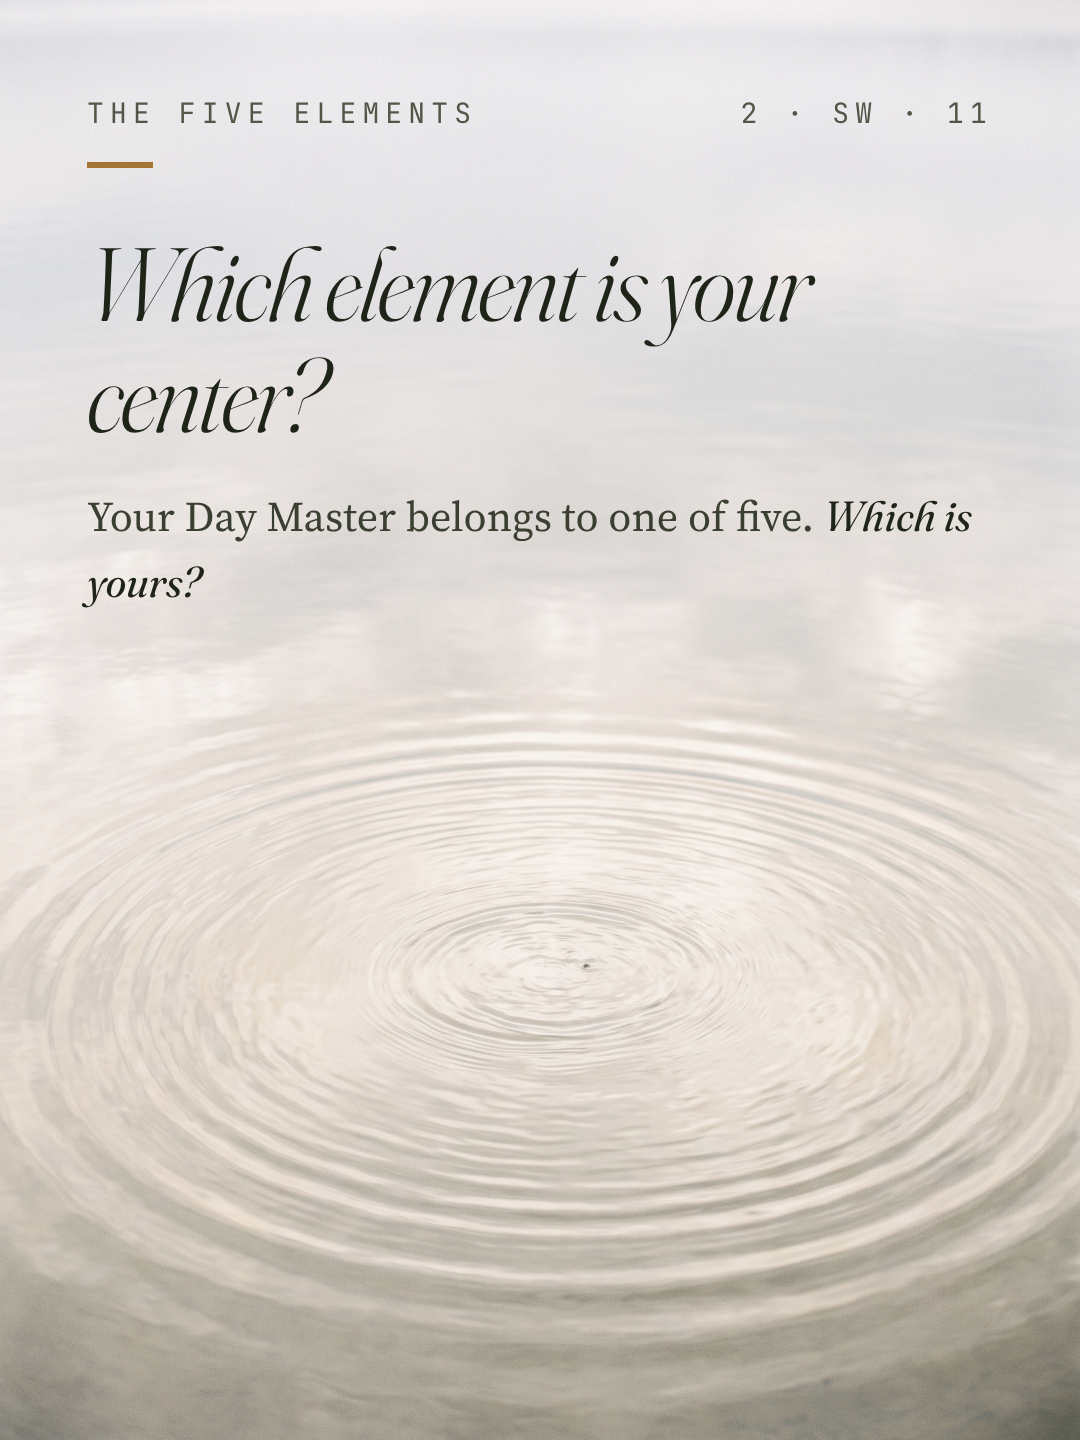
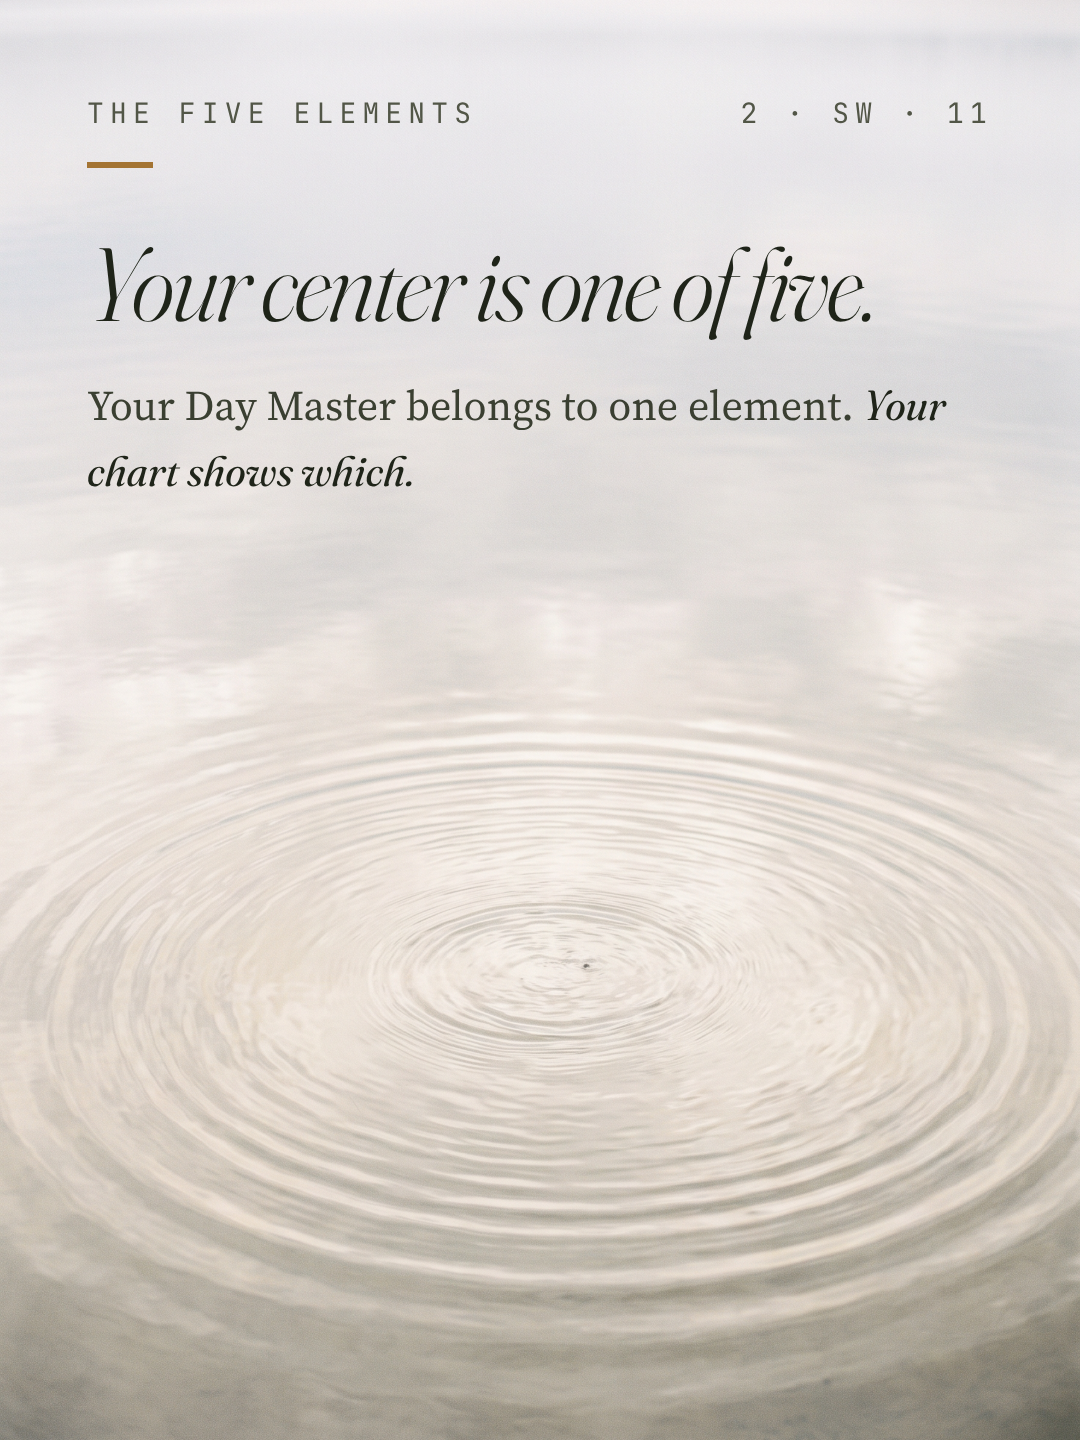
Grid 2 reader-first pass: post 12 cover and post 11 tile rewritten
Claude-Session: https://claude.ai/code/session_015jTJxM8dp5Kg3SoSqQjrAk

diff --git a/engine3/grids/g2.py b/engine3/grids/g2.py
@@ -21,6 +21,7 @@ Fill (posting) order: 13, 18, 12, 17, 14, 16, 11, 15, 10.
 Nov 18 revision (Ryan chose set B): 10 frost on glass, 11 rings on water, 13 deep indigo (dark).
 13 is a deliberate dark corner: it breaks the light/dark checkerboard at 6 NW by choice.
 redwood and hills are retired from this grid (kept in BACKGROUNDS for reference).
+- Nov 26: reader-first pass (Ryan approved): post 12 cover "One element for every season." -> "You don't feel the same all year." (old line kept as body); post 11 "Which element is your center? ... Which is yours?" -> "Your center is one of five. / Your chart shows which." (no guessing your own Day Master, lesson 37).
 - Nov 25: post 10 rewritten from "They're phases, not things." (a true layer stated as the whole, lesson 30) to "Five elements. More than five things." (Ryan approved the review fix).
 """
 import os as _os
@@ -46,7 +47,7 @@ TILES = [
     dict(post=15, slug='everything-feeds', template='horizon', bg='ember', dark=True, kicker='The cycles', palace='9 · S · 15',
          head='Everything feeds something.', body='Wood feeds Fire. Fire makes Earth.', accent='The Production cycle.'),
     dict(post=11, slug='your-center', template='sky', bg='rings', dark=False, kicker='The five elements', palace='2 · SW · 11',
-         head='Which element is your center?', body='Your Day Master belongs to one of five.', accent='Which is yours?'),
+         head='Your center is one of five.', body='Your Day Master belongs to one element.', accent='Your chart shows which.'),
     dict(post=16, slug='everything-checked', template='sky', bg='rain', dark=True, kicker='The cycles', palace='3 · E · 16',
          head='Everything is checked by something.', body='Water puts out Fire. Fire melts Metal.', accent='The Controlling cycle.'),
     dict(post=14, slug='major-snow', template='character', bg='paper', dark=False, kicker='大雪 · Major Snow', palace='5 · Center · 14', char='大雪',
@@ -54,7 +55,7 @@ TILES = [
     dict(post=17, slug='feed-can-tire', template='plate', bg='slate', dark=True, kicker='The cycles', palace='7 · W · 17', art=('cycle', True, True),
          head='What you feed can tire you.', body='Fire burns through Wood. Wood drinks Water.', accent='The Weakening cycle.', cta='Save this'),
     dict(post=12, slug='every-season', template='plate', bg='paper', dark=False, kicker='The five elements', palace='8 · NE · 12', art=('five_seasons', False),
-         head='One element for every season.', body=None, accent=None, cta='Swipe for all five →', carousel='slides 2-5 to build'),
+         head="You don't feel the same all year.", body='One element for every season.', accent=None, cta='Swipe for all five →', carousel='slides 2-5 to build'),
     dict(post=18, slug='who-feeds-you', template='question', bg='slate', dark=True, kicker='Find yourself', palace='1 · N · 18',
          head='Who feeds you? Who drains you?', sub='The same three cycles run between people.', cta='Tag someone'),
     dict(post=13, slug='winter-water', template='character', bg='indigo', dark=True, kicker='Find yourself', palace='6 · NW · 13', char='水',
